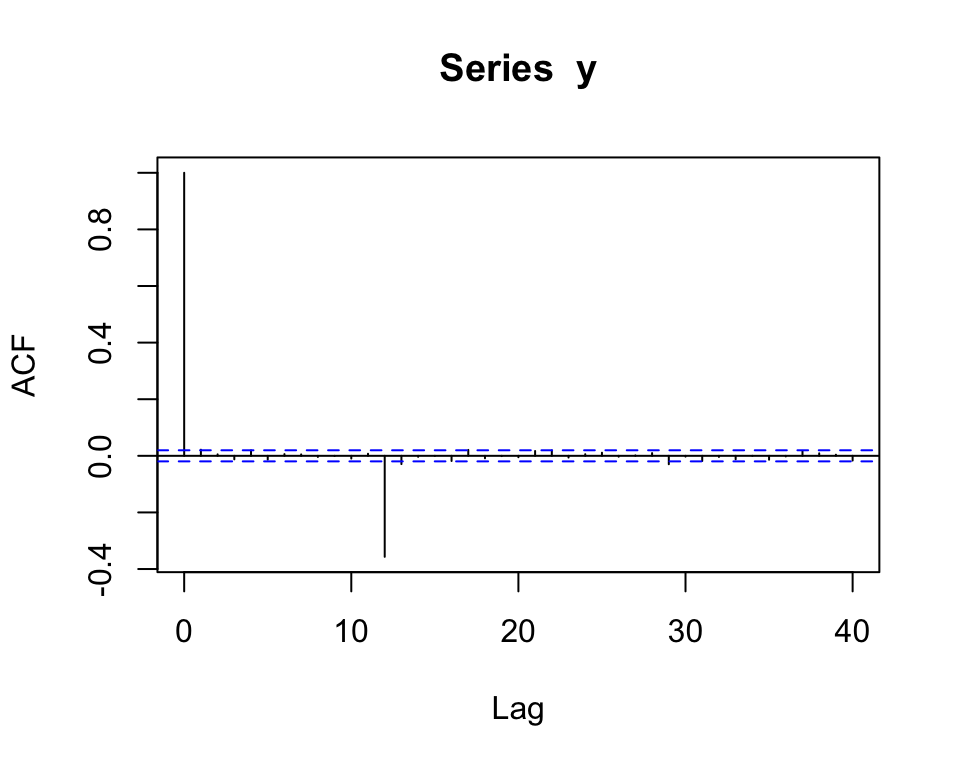
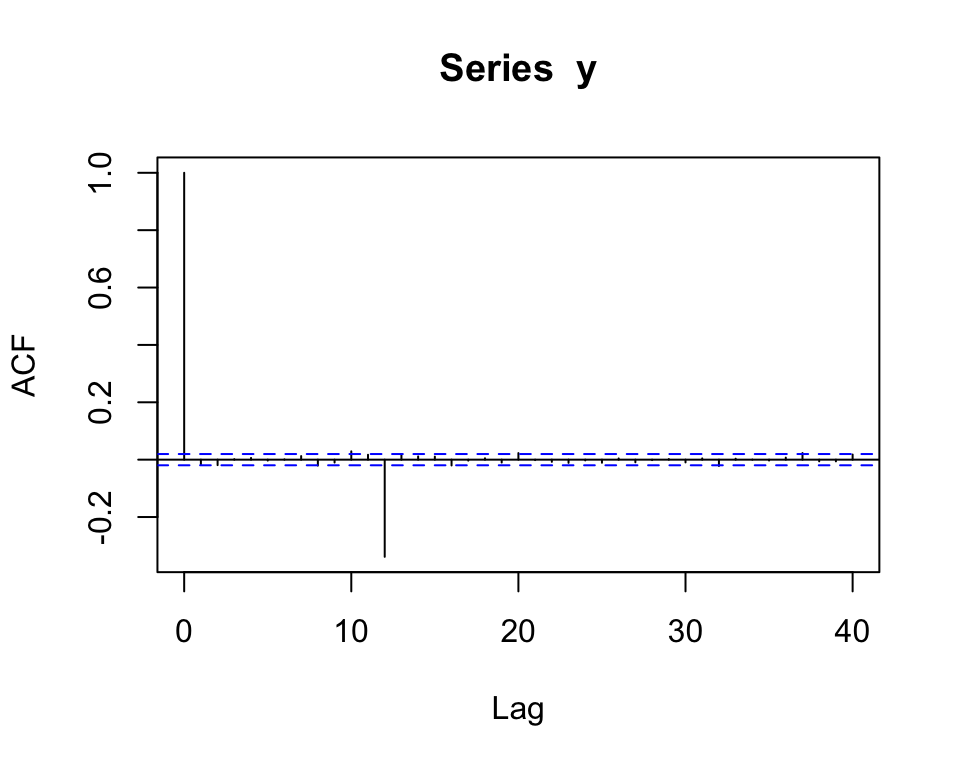
up

Changed region(s): [[0.1562, 0.5625, 0.9062, 0.625], [0.0938, 0.1875, 0.1562, 0.7812]]

diff --git a/SARIMA.html b/SARIMA.html
@@ -212,7 +212,8 @@ Prof.&nbsp;Carlos Trucíos <br> ctrucios@unicamp.br
 <nav role="doc-toc"> 
 <h2 id="toc-title">Agenda</h2>
 <ul>
-<li class="fragment"><a href="#/sarima" id="/toc-sarima">SARIMA</a></li>
+<li class="fragment"><a href="#/introdução" id="/toc-introdução">Introdução</a></li>
+<li class="fragment"><a href="#/sarima-1" id="/toc-sarima-1">SARIMA</a></li>
 <li class="fragment"><a href="#/identificação" id="/toc-identificação">Identificação</a></li>
 <li class="fragment"><a href="#/exemplos-1" id="/toc-exemplos-1">Exemplos</a></li>
 <li class="fragment"><a href="#/seleção-de-modelos" id="/toc-seleção-de-modelos">Seleção de Modelos</a></li>
@@ -220,11 +221,60 @@ Prof.&nbsp;Carlos Trucíos <br> ctrucios@unicamp.br
 </nav>
 </section>
 <section>
-<section id="sarima" class="title-slide slide level1 center">
+<section id="introdução" class="title-slide slide level1 center">
+<h1>Introdução</h1>
+
+</section>
+<section id="introdução-1" class="slide level2">
+<h2>Introdução</h2>
+<ul>
+<li class="fragment">Muitas séries temporais apresentam fenômenos sazonais que se repetem periodicamente.</li>
+<li class="fragment">Esta sazonalidade é um tipo de falta de estacionariedade na média e é bastante frequente (Por exemplo, <span class="math inline">\(\mathbb{E}(Y_t) = \mathbb{E}(Y_{t+s})\)</span>).</li>
+<li class="fragment">Fenômenos sazonais pode ser produto de fatores climáticos, culturais, religiosos, etc. Exemplo:
+<ul>
+<li class="fragment">Formatura</li>
+<li class="fragment">Mês das noivas</li>
+<li class="fragment">Carnaval</li>
+<li class="fragment">Natal</li>
+<li class="fragment">Etc</li>
+</ul></li>
+<li class="fragment">Como lidar com este tipo de dados?</li>
+</ul>
+</section>
+<section id="introdução-2" class="slide level2">
+<h2>Introdução</h2>
+<center>
+<span style="color:blue"><strong>Como lidar com este tipo de dados?</strong></span>
+</center>
+<div class="columns">
+<div class="column" style="width:50%;">
+<h3 id="métodos-tradicionais">Métodos Tradicionais</h3>
+<p><span class="math display">\[Y_t = T_t + S_t + \epsilon_t\]</span> - Métodos de decomposição - Modelos de regressão (tendência determinística + Dummy | Fourier)</p>
+</div><div class="column" style="width:50%;">
+<h3 id="sarima">SARIMA</h3>
+<p>ARIMA Sazonal</p>
+</div></div>
+</section></section>
+<section>
+<section id="sarima-1" class="title-slide slide level1 center">
 <h1>SARIMA</h1>
 
 </section>
-<section id="sarima-1" class="slide level2">
+<section id="sarima-2" class="slide level2">
+<h2>SARIMA</h2>
+<ul>
+<li class="fragment">Métodos tradicionais assumem que a componente sazonal é deterministica e independente das componentes não sazonais. Contudo, esta suposição não é tão realista assim.</li>
+<li class="fragment">Muitas vezes <span class="math inline">\(S_t\)</span> pode ser estocástica e correlacionada com as outras componentes. Nestes casos, extendemos ARIMA para também capturar a componente sazonal.</li>
+<li class="fragment">Ou seja, <span class="math inline">\(\{Y_t\}\)</span> terá uma relação dentro do período sazonal (<span class="math inline">\(\{Y_{t-1}, ..., Y_{t - s + 1}\}\)</span>) e outra entre períodos (<span class="math inline">\(\{Y_{t-s}, Y_{t-2s}, ...\}\)</span>).</li>
+<li class="fragment">Assim como tentamos remover a tendência deterministica com diferebciação <span class="math inline">\(d\)</span>, tentamos remover a sazonalidade determinística com diferenciação sazinal <span class="math inline">\(D\)</span> (<span class="math inline">\(Y_t - Y_{t - s}\)</span>).</li>
+<li class="fragment">Contudo, é possivel que mesmo após remover o comportamento sazonal determinístico, ainda exista correlação significativa em:
+<ul>
+<li class="fragment"><strong>Lags</strong> de ordem baixa: indicando que os resíduos ainda são correlacionados e um modelo ARMA poderia ajudar.</li>
+<li class="fragment"><strong>Lags</strong> sazonais: indicando a necessidade de considerar sazonalidade estocástica (com modelos SARMA)</li>
+</ul></li>
+</ul>
+</section>
+<section id="sarima-3" class="slide level2">
 <h2>SARIMA</h2>
 <div class="panel-tabset">
 <ul id="tabset-1" class="panel-tabset-tabby"><li><a data-tabby-default="" href="#tabset-1-1">Data</a></li><li><a href="#tabset-1-2">Plot</a></li><li><a href="#tabset-1-3">R-S</a></li><li><a href="#tabset-1-4">R-T</a></li></ul>
@@ -313,15 +363,15 @@ $ V1 &lt;dbl&gt; 4.587898, 4.165729, 2.003551, 1.347498, 3.484531, 3.766763, 4.6
 </div>
 </div>
 </section>
-<section id="sarima-2" class="slide level2">
+<section id="sarima-4" class="slide level2">
 <h2>SARIMA</h2>
 <p>É possivel que, após diferenciação para remover a sazonalidade e a tendência, ainda existe correlação significativa em:</p>
 <ul>
 <li class="fragment"><em>lags</em> de ordem baixa: indicando que os resíduos ainda são correlacionados e um modelo ARMA poderia ajudar a capturar a dinâmica dos dados.</li>
-<li class="fragment"><em>lags</em> sazonais: indicando a necessidade de considerar sazonalidade estocástica, em cujo caso, modelo SARIMA podem ajudar a capturar a dinâmica dos dados.</li>
+<li class="fragment"><em>lags</em> sazonais: indicando a necessidade de considerar sazonalidade estocástica, em cujo caso, modelo SARMA podem ajudar a capturar a dinâmica dos dados.</li>
 </ul>
 </section>
-<section id="sarima-3" class="slide level2">
+<section id="sarima-5" class="slide level2">
 <h2>SARIMA</h2>
 <div class="callout callout-note no-icon callout-titled callout-style-default">
 <div class="callout-body">
@@ -347,7 +397,7 @@ $ V1 &lt;dbl&gt; 4.587898, 4.165729, 2.003551, 1.347498, 3.484531, 3.766763, 4.6
 </center>
 </div>
 </section>
-<section id="sarima-4" class="slide level2">
+<section id="sarima-6" class="slide level2">
 <h2>SARIMA</h2>
 <p>Note que o modelo SARIMA definido anteriormente pode ser reescrito como <span class="math display">\[\phi^{\ast}(B) z_t = \theta^{\ast}(B) \epsilon_t,\]</span></p>
 <p>em que:</p>
@@ -365,7 +415,7 @@ $ V1 &lt;dbl&gt; 4.587898, 4.165729, 2.003551, 1.347498, 3.484531, 3.766763, 4.6
 </ul>
 </div>
 </section>
-<section id="sarima-5" class="slide level2">
+<section id="sarima-7" class="slide level2">
 <h2>SARIMA</h2>
 <p>Suponha que temos <span class="math inline">\(r\)</span> anos de dados mensais:</p>
 <table class="caption-top">
@@ -423,7 +473,7 @@ $ V1 &lt;dbl&gt; 4.587898, 4.165729, 2.003551, 1.347498, 3.484531, 3.766763, 4.6
 </tbody>
 </table>
 </section>
-<section id="sarima-6" class="slide level2">
+<section id="sarima-8" class="slide level2">
 <h2>SARIMA</h2>
 <ul>
 <li class="fragment">Cada coluna pode ser vista como a realização de uma série temporal.</li>
@@ -435,7 +485,7 @@ y_{j + 12t} &amp;= \Phi_1 y_{j + 12(t - 1)} + \cdots + \Phi_P y_{j + 12(t-P)} \n
 <li class="fragment">Note que <span class="math inline">\(\mathbb{E}(U_t U_{t+h})\)</span> não necessariamente é zero (exceto de <span class="math inline">\(h\)</span> for múltiplo do período sazonal).</li>
 </ul>
 </section>
-<section id="sarima-7" class="slide level2">
+<section id="sarima-9" class="slide level2">
 <h2>SARIMA</h2>
 <p><span class="math display">\[\Phi(B^{12})y_t = \Theta(B^{12})U_t\]</span></p>
 <div class="fragment">
@@ -445,7 +495,7 @@ y_{j + 12t} &amp;= \Phi_1 y_{j + 12(t - 1)} + \cdots + \Phi_P y_{j + 12(t-P)} \n
 </ul>
 </div>
 </section>
-<section id="sarima-8" class="slide level2">
+<section id="sarima-10" class="slide level2">
 <h2>SARIMA</h2>
 <p><span class="math display">\[\Phi(B^{12})y_t = \Theta(B^{12})U_t\]</span></p>
 <div class="fragment">
@@ -466,7 +516,7 @@ y_{j + 12t} &amp;= \Phi_1 y_{j + 12(t - 1)} + \cdots + \Phi_P y_{j + 12(t-P)} \n
 </div>
 </div>
 </section>
-<section id="sarima-9" class="slide level2">
+<section id="sarima-11" class="slide level2">
 <h2>SARIMA</h2>
 <p><span class="math display">\[\Phi(B^{12})y_t = \Theta(B^{12})U_t\]</span></p>
 <div class="fragment">
@@ -487,7 +537,7 @@ y_{j + 12t} &amp;= \Phi_1 y_{j + 12(t - 1)} + \cdots + \Phi_P y_{j + 12(t-P)} \n
 </div>
 </div>
 </section>
-<section id="sarima-10" class="slide level2">
+<section id="sarima-12" class="slide level2">
 <h2>SARIMA</h2>
 <ul>
 <li class="fragment">Nos modelos dos exemplos anteriores (assumindo <span class="math inline">\(\mathbb{E}(U_t U_{t+h}) = 0\)</span> <span class="math inline">\(\forall h\)</span>), as 12 séries (correspondentes a cada mês) são não correlacionados.</li>
@@ -499,7 +549,7 @@ y_{j + 12t} &amp;= \Phi_1 y_{j + 12(t - 1)} + \cdots + \Phi_P y_{j + 12(t-P)} \n
 <li class="fragment">Misturando ambos os modelos, temos exatamente o modelo definido na definição do modelo SARIMA! 🏄♀</li>
 </ul>
 </section>
-<section id="sarima-11" class="slide level2">
+<section id="sarima-13" class="slide level2">
 <h2>SARIMA</h2>
 <p><span class="math display">\[\Phi(B^{12})y_t = \Theta(B^{12})U_t\]</span></p>
 <p><span class="math display">\[\phi(B)U_t = \theta(B)\epsilon_t\]</span></p>
@@ -997,14 +1047,19 @@ sigma^2 estimated as 75607:  log likelihood = -424.92,  aic = 857.83</code></pre
 </section>
 <section id="seleção-de-modelos-5" class="slide level2">
 <h2>Seleção de Modelos</h2>
-<p><a href="https://doi.org/10.1093/biomet/63.1.117">Shibata (1976)</a> mostrou que o uso da mesma fórmula do AIC, com foco em previsão out-of-sample, é assintoticamente eficiente: ou seja, mesmo quando o modelo verdadeiro não pertence à classe considerada (por exemplo, um ARMA aproximando uma série mais complexa), essa fórmula ainda tende a selecionar o modelo com melhor desempenho preditivo à medida que <span class="math inline">\(n \rightarrow \infty\)</span>.</p>
+<ul>
+<li class="fragment"><a href="https://doi.org/10.1093/biomet/63.1.117">Shibata (1976)</a> mostrou que o uso da mesma fórmula do AIC, com foco em previsão out-of-sample, é assintoticamente eficiente: ou seja, mesmo quando o modelo verdadeiro não pertence à classe considerada (por exemplo, um ARMA aproximando uma série mais complexa), essa fórmula ainda tende a selecionar o modelo com melhor desempenho preditivo à medida que <span class="math inline">\(n \rightarrow \infty\)</span>.</li>
+<li class="fragment">A AICc é útil para selecionar entre modelos dentro da mesma classe. Por exemplo, podemos usá-la para escolher um modelo ARIMA entre modelos ARIMA candidatos. O mesmo aplica para outros critérios de informação.</li>
+<li class="fragment">Critérios de informação apenas são úties para compara modelos com <strong>as mesmas ordens de diferenciação</strong>.</li>
+</ul>
 </section>
 <section id="referências" class="slide level2">
 <h2>Referências</h2>
 <ul>
 <li class="fragment"><a href="https://link.springer.com/book/10.1007/978-3-319-29854-2">Brockwell, P. J., &amp; Davis, R. A. (Third Edition). (2016). Introduction to Time Series and Forecasting. New York, NY: Springer New York.</a>. Chapter 8</li>
-<li class="fragment"><a href="https://otexts.com/fpp3/">Hyndman, R.J., &amp; Athanasopoulos, G. (2021). Forecasting: principles and practice, 3rd edition, OTexts: Melbourne, Australia. OTexts.com/fpp3.</a>. Chapter 8.</li>
+<li class="fragment"><a href="https://otexts.com/fpp3/">Hyndman, R.J., &amp; Athanasopoulos, G. (2021). Forecasting: principles and practice, 3rd edition, OTexts: Melbourne, Australia. OTexts.com/fpp3.</a>. Chapter 9.</li>
 <li class="fragment">Shibata, R. (1976). Selection of the order of an autoregressive model by Akaike’s Information Criterion. Biometrika, 63(1), 117–126.</li>
+<li class="fragment">Peña, D. (2010). Análisis de Series Temporales. Cap 7.</li>
 </ul>
 
 </section></section>
